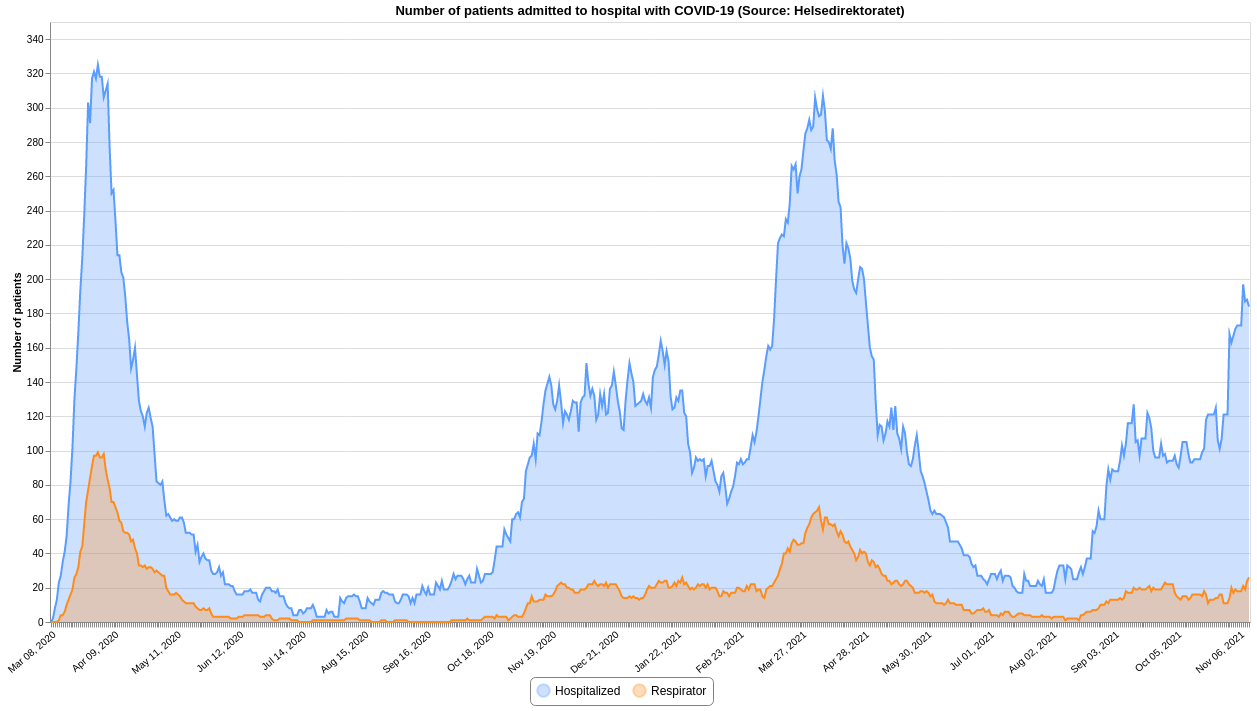
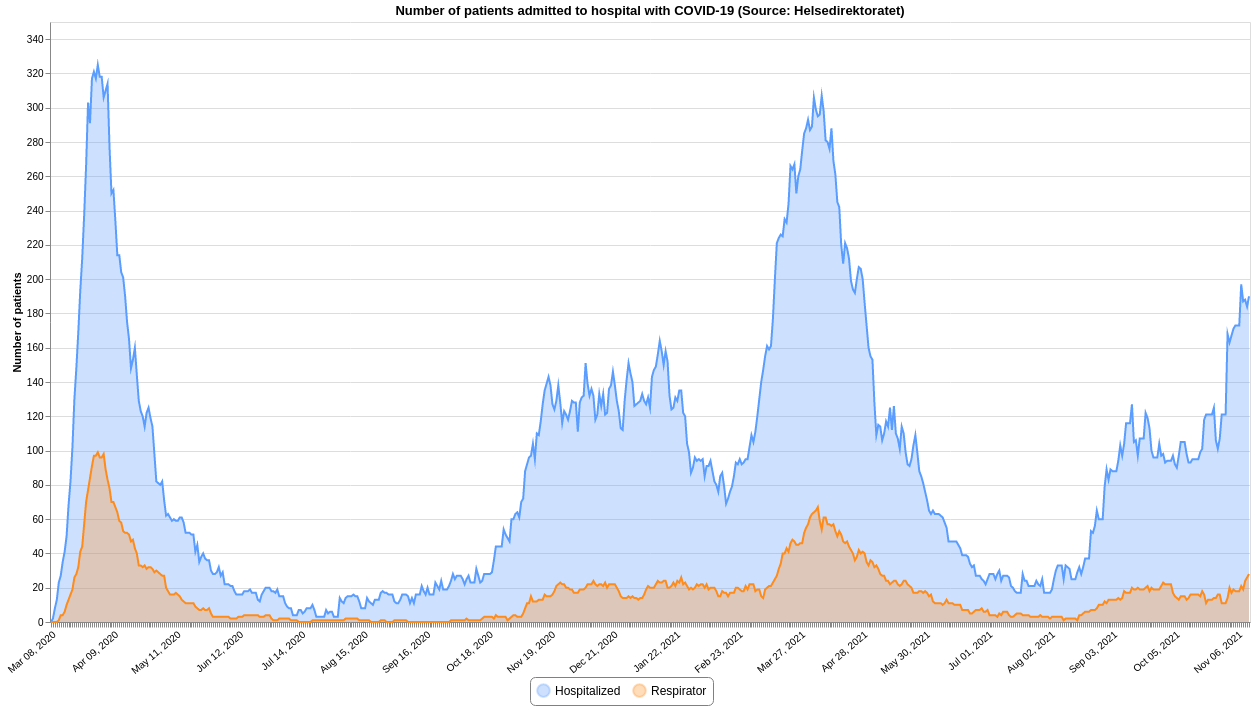
Updated 2021-11-12 12:21

diff --git a/README.md b/README.md
@@ -12,7 +12,7 @@ This repository contains datasets of daily time-series data related to COVID-19 
 | :--- | :--- | :--- | :--- | :--- |
 |[Confirmed](#confirmedcsv)|FHI / MSIS|2021-11-12 00:10:45+01:00|[<center>csv</center>](https://raw.githubusercontent.com/frefrik/covid19norge-data/main/data/confirmed.csv)|[<center>preview</center>](data/confirmed.csv)|
 |[Dead](#deadcsv)|FHI|2021-11-11 13:20:55+01:00|[<center>csv</center>](https://raw.githubusercontent.com/frefrik/covid19norge-data/main/data/dead.csv)|[<center>preview</center>](data/dead.csv)|
-|[Hospitalized](#hospitalizedcsv)|Helsedirektoratet|2021-11-11 12:50:50+01:00|[<center>csv</center>](https://raw.githubusercontent.com/frefrik/covid19norge-data/main/data/hospitalized.csv)|[<center>preview</center>](data/hospitalized.csv)|
+|[Hospitalized](#hospitalizedcsv)|Helsedirektoratet|2021-11-12 12:20:53+01:00|[<center>csv</center>](https://raw.githubusercontent.com/frefrik/covid19norge-data/main/data/hospitalized.csv)|[<center>preview</center>](data/hospitalized.csv)|
 |[Tested](#testedcsv)|FHI|2021-11-11 13:10:49+01:00|[<center>csv</center>](https://raw.githubusercontent.com/frefrik/covid19norge-data/main/data/tested.csv)|[<center>preview</center>](data/tested.csv)|
 |[Tested Lab](#tested_labcsv)|FHI|2021-11-11 13:20:49+01:00|[<center>csv</center>](https://raw.githubusercontent.com/frefrik/covid19norge-data/main/data/tested_lab.csv)|[<center>preview</center>](data/tested_lab.csv)|
 |[Transport](#transportcsv)|FHI|2021-09-24 23:10:46+02:00|[<center>csv</center>](https://raw.githubusercontent.com/frefrik/covid19norge-data/main/data/transport.csv)|[<center>preview</center>](data/transport.csv)|
